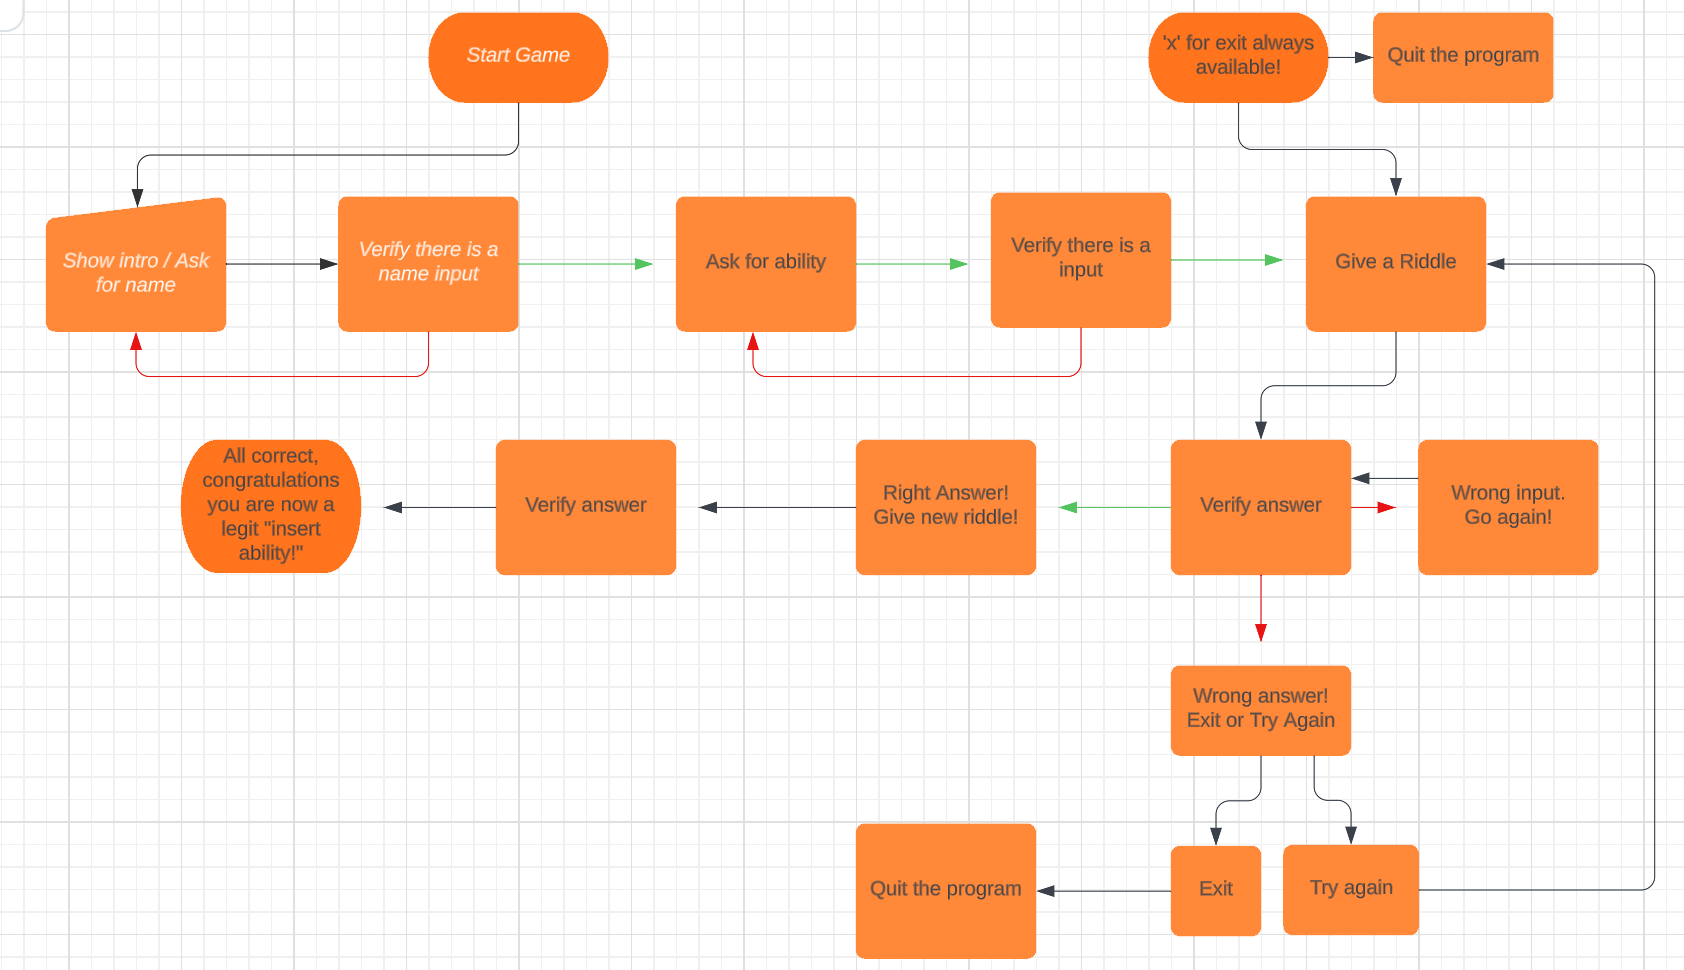
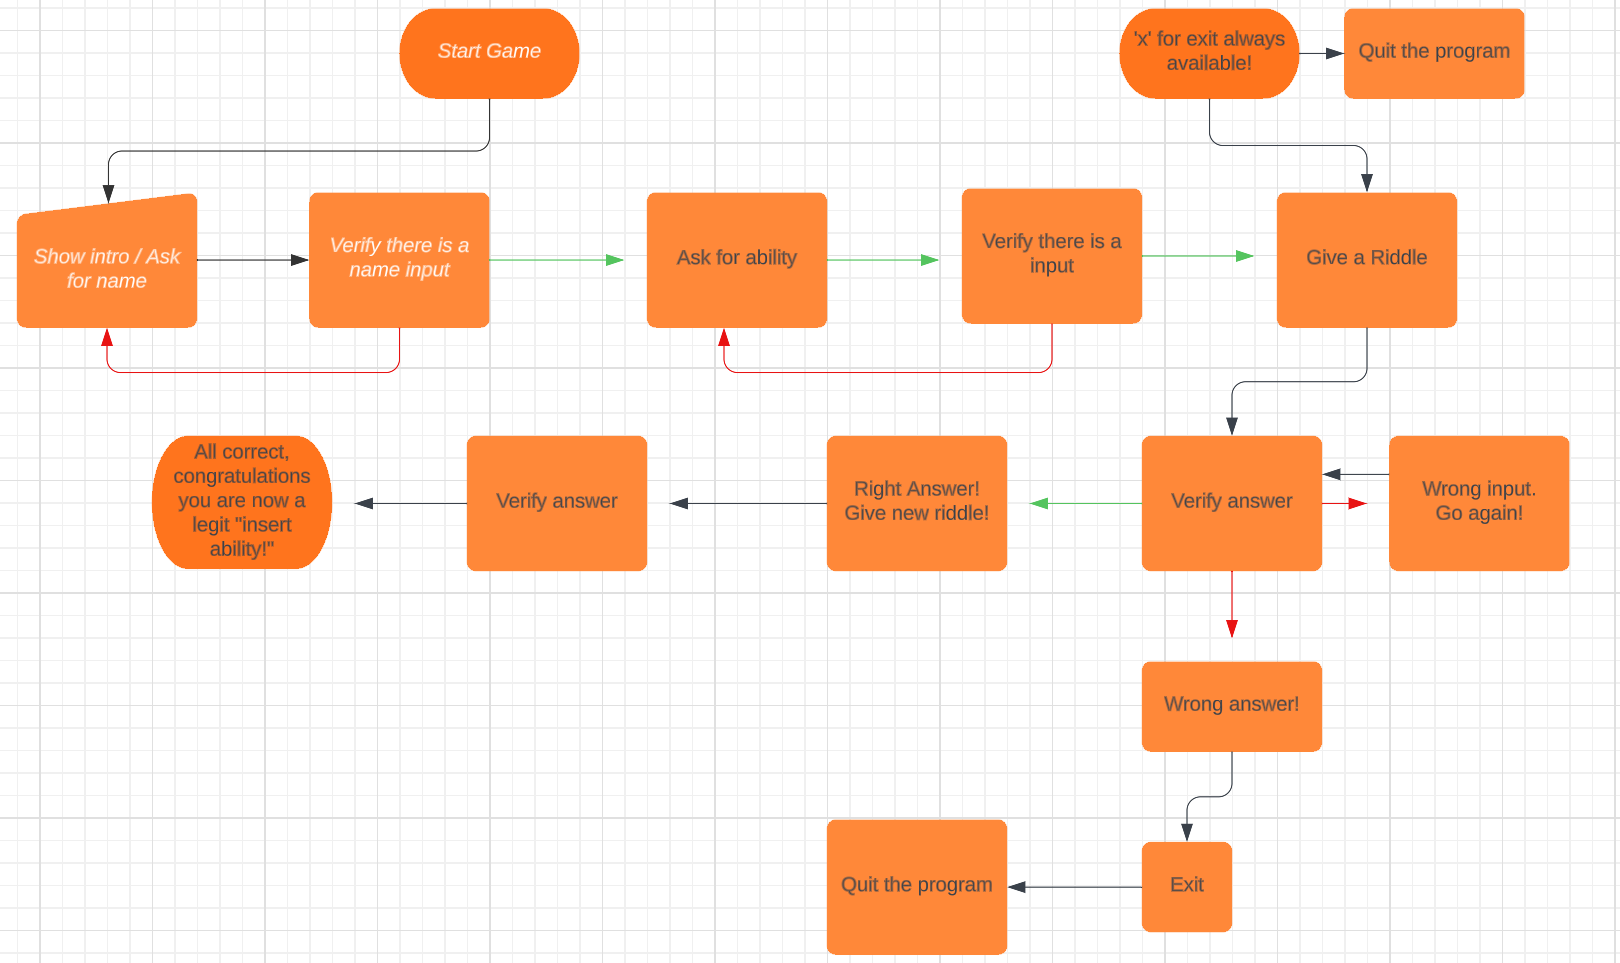
add readme features & design

diff --git a/run.py b/run.py
@@ -74,6 +74,7 @@ def riddleme():
         + Style.RESET_ALL
          )
     input("Press enter to continue...\n")
+    os.system('cls' if os.name == 'nt' else 'clear')
     name = ""
     ability = ""
     # This while loop make sure that you insert a name and ability that is
@@ -106,7 +107,6 @@ def riddleme():
                 continue
 
         if not ability:
-            os.system('cls' if os.name == 'nt' else 'clear')
             print(
                 Fore.CYAN +
                 f"{name.capitalize()} in order to proceed, "

diff --git a/README.md b/README.md
@@ -1,15 +1,113 @@
 # Riddle Me!
 This is a small game/quiz that allows you to gain an ability in a magical cave. However, in order to obtain the ability, you must correctly answer a series of riddles.
 
+---
+
 ## How To Play?
 - Firstly, you will be prompted to enter your name.
 - Secondly, you will be asked to enter the ability you wish to acquire.
-- Third, you will be presented with a riddle along with four answer choices: A, B, C, and D. You can also choose to exit the game by entering "X."
+- Third, you will be presented with a riddle along with four answer choices: a, b, c, and d. You can also choose to exit the game by entering "x"
 - Keep in mind that you have only one attempt to answer each riddle. If you fail to answer correctly, the game will exit. Remember, this gift is not easily obtained!
 - To gain the ability, you need to answer five riddles correctly.
+---
+## Design and UX
+### Color 
+- When choosing colors i wanted to ensure there is sufficient separation to make it much easier to read.
+- Green, Red, Blue, Cyan and White. Very simple and mild colors that present what they need just by the color themselves.
 
-Flowchart! \
+### Art
+- As for ASCII, I wanted to add some extra flexibility, so I included ASCII art since it's a fun way to enhance the terminal experience.
+
+### User Experience
+- The user interface is designed to be straightforward, following a linear path that leaves little room for confusion, except when it comes to the riddles.
+---
+## Flowchart! 
+- I created a flowchart to understand the game's progression and assist me in figuring out the mechanics.
+
 ![Flowchart](assets/readme/flowchart.png)
+
+---
+
+## Features
+### HTML / CSS
+
+---
+
+### Terminal
+
+#### Welcome Screen.
+    - This screen is what welcomes the user to the game.
+    - Ascii art with the name of the game 
+    - Then a simple way forward. "Press enter to continue..."
+
+![welcomescreen](assets/readme/rmw.png)
+
+---
+
+ #### Game Instruction and Welcome
+    - The game begins with a welcoming text that outlines what you can expect from the game.
+    - It provides you with the motivation behind playing the game, highlighting the reasons why you should press enter again.
+    - Following that, there is a concise and straightforward explanation of the rules, keeping them minimal and easy to understand.
+
+ ![welcomescreenhi](assets/readme/wshi.png)
+
+---
+
+#### Name 
+    - Now it is asking for your name it gives you clear information on what you can and cant do.
+
+![nameinput](assets/readme/nameinput.png)
+
+---
+
+#### Ability
+    - It then asks for the ability that you wish to learn!
+
+  ![abilityinput](assets/readme/abilityinput.png)
+
+---
+
+#### Riddle
+    - After you have put in your name and ability you will be greeted with your name and your ability will be mentioned.
+    - Once again you will be reminded that you need to pass the test of riddles to be worthy!
+    - The Riddle will be presented with four choices to chose from
+    - The alternatives will be a, b, c and d
+    - You can always give up and exit the game by entering x!
+
+![riddles](assets/readme/riddles.png)
+
+---
+
+#### Right Answer
+    - When you get the right answer you will be handed a green correct answer message and the next riddle will be presented to you.
+
+![riddle correct](assets/readme/riddlecorrect.png)
+
+---
+
+#### Wrong Answer
+    - When you answer wrong you will be thrown out of the game since you have one chance to make it!
+
+![riddle wrong](assets/readme/riddlewrong.png)
+
+---
+
+#### All correct
+    - When you finish all the five riddles you will be presented with your ability in beautiful ascii art!
+
+![win](assets/readme/win.png)
+
+---
+
+#### Error handling
+    - Empty name / ability
+    - Only numbers on both name and ability
+    - Answer choice not available
+![empty input](assets/readme/empty.png) \
+![only numeric input](assets/readme/numbers.png) \
+![answer input](assets/readme/answerinput.png)
+
+---
 
 Overall inspiration and ideas from:
  - https://realpython.com/python-quiz-application/
